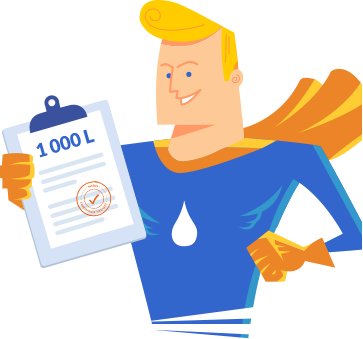
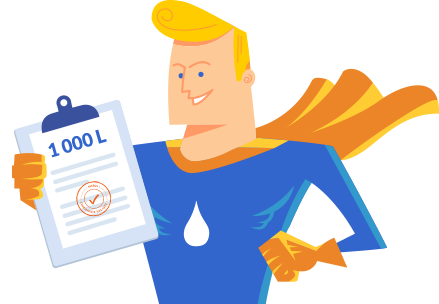
mascotte cycle 5

diff --git a/prix-fioul.html b/prix-fioul.html
@@ -16,7 +16,7 @@
 	  	<link rel="stylesheet" href="css/libs/normalize.css">
 	  	<link rel="stylesheet" media="screen" href="js/libs/bootstrap/bootstrap.min.css">
 	  	<link rel="stylesheet" media="screen" href="js/libs/bootstrap/bootstrap-responsive.min.css">
-	  	<link rel="stylesheet" href="css/cycle.css">
+	  	<link rel="stylesheet" href="css/interieure.css">
 	  	<link rel="stylesheet" href="css/commun.css">
 		<!--[if lt IE 7]>
 		<link rel="stylesheet" href="css/libs/ie6.css" />
@@ -31,7 +31,7 @@
 	    <![endif]-->
 	</head>
 	
-	<body class="cycle">
+	<body class="interieure">
 		<div class="big-container">
 	  	<header class="bloc-full bloc-blanc">
 	  		<div class="container">
@@ -94,109 +94,95 @@
 	  		</div>
 	  	</section>
 	  	<div class="bloc-full bloc-gris-bleu">
-		  	<div class="container no-relative">
-		  		<section id="bloc-cycle">
-		  			<section id="bloc-etapes-cycle" class="bloc-full">
-		  				<ul id="etapes-cycle">
-		  					<li class="etape-cycle inactive">
-		  						<div class="bloc-titre-etape"><div class="titre-etape">Devis</div></div>
-		  						<div class="bloc-num-etape first"><span class="num-etape"></span></div>
-		  					</li><li class="etape-cycle inactive">
-		  						<div class="bloc-titre-etape"><div class="titre-etape">Coordonnées</div></div>
-		  						<div class="bloc-num-etape"><span class="num-etape"></span></div>
-		  					</li><li class="etape-cycle inactive">
-		  						<div class="bloc-titre-etape"><div class="titre-etape">Récapitulatif</div></div>
-		  						<div class="bloc-num-etape"><span class="num-etape"></span></div>
-		  					</li><li class="etape-cycle inactive">
-		  						<div class="bloc-titre-etape"><div class="titre-etape">Paiement</div></div>
-		  						<div class="bloc-num-etape last"><span class="num-etape"></span></div>
-		  					</li>
-		  				</ul>
-		  			</section>
-		  			<section class="bloc-formulaire bloc-full">
-		  				<form class="form-horizontal">
-			  				<div class="bloc-blanc-ombre small-margin-bottom bloc-full">
-			  					<div class="part-form">
-			  						<div class="titre-part-form">
-			  							<div class="picto-check"></div>
-			  							<h2>Votre commande a bien été enregistrée&nbsp;!</h2>
-			  						</div>
-			  						<div class="controls small-margin">
-										<p>Merci de votre commande, <strong>M. Jean Lefèvre.</strong></p>
-										<p>Votre numéro de commande est le <strong>45482</strong> et un email de confirmation vous a été envoyé à l’adresse <strong>adresse@email.com</strong></p>
-										<p>Votre distributeur va vous contacter prochainement au <strong>06 45 20 15 36</strong> (ou au <strong>01 01 01 01 01</strong>), pour convenir avec vous d’un créneau horaire pour vous livrer vos <strong>1 000 litres</strong> de <strong>fioul ordinaire</strong> au <strong>29 rue Jules Ferry 86120 Bournand</strong> au plus tard le <strong>10 juillet 2014.</strong></p>
-									</div>
-			  					</div><div class="part-details">
-			  						<div class="fond-part-details"></div>
-			  						<div class="detail-cycle">
-			  							Pour toute question sur votre <strong>livraison</strong> : contactez votre distributeur au <strong>01 02 03 04 05.</strong>
-			  						</div>
-			  						<div class="detail-cycle">
-			  							Pour toute question sur votre <strong>commande</strong> : <br /><a class="btn btn-link" href="#"><span class="txt-btn">cliquez ici pour nous contacter par email</span></a><br /> ou appelez-nous au <strong>09 75 18 75 18.</strong>
-			  						</div>
-			  					</div>
-			  				</div>
-			  				<div class="bloc-blanc-ombre margin-bottom bloc-full">
-			  					<div class="part-form">
-			  						<div class="titre-part-form inline-block">
-			  							<h2>Partagez votre expérience !</h2>
-			  						</div>
-			  						<div class="controls small-margin">
-										<ul class="social-form">
-											<li><a href="#" class="social-link facebook"><span></span></a></li>
-											<li><a href="#" class="social-link twitter"><span></span></a></li>
-											<li><a href="#" class="social-link google-plus"><span></span></a></li>
-										</ul>
-			  						</div>
-			  					</div><div class="part-details">
-			  							<div class="mascotte-experience"></div>
-			  						<div class="fond-part-details"></div>
-			  					</div>
-			  				</div>
-		  				</form>
-		  			</section>
+		  	<div class="container">
+		  		<section id="bloc-content-inte">
+		  			<ul class="breadcrumb">
+		  			  <li><a href="#">Accueil</a> <span class="divider">›</span></li>
+		  			  <li class="active">Prix du fioul</li>
+		  			</ul>
+		  			<div class="bloc-blanc-ombre bloc-full">
+		  				<div class="part-inte">
+							<h1>Le prix du fioul en France</h1>
+							<p>Retrouvez le <strong>prix du fioul domestique aujourd'hui en France</strong> et dans votre région. Nous mettons à jour quotidiennement les prix du fioul de chaque région. Ce prix moyen du fioul domestique est calculé à partir des moyennes des prix observées dans les différentes villes de France.</p>
+							<h2>Éditeur du site</h2>
+							<p>Le site web <a class="btn btn-link" href="#"><span class="txt-btn">www.fioulreduc.com</span></a> est édité par la société :</p><br />
+							<p><strong>SAS FioulReduc</strong><br />
+							Société par actions simplifiées au Capital de 25 000 euros<br />
+							Immatriculée au Registre du Commerce et des Sociétés de Paris sous le numéro 534 917 000 R.C.S<br />
+							Paris<br />
+							TVA intracommunautaire numéro FR 84 534917000<br />
+							Dont le siège social est situé 8, rue La Bruyère - 75009 Paris<br />
+							Téléphone : +33 1 71 26 74 40</p><br />
+							<p>E-Mail : <a class="btn btn-link" href="#"><span class="txt-btn">contact@fioureduc.com</span></a></p><br />
+							<p>Le directeur de la publication est M. Guillaume BORT, agissant en tant que Président de la société SAS fioulreduc</p>
+							<h2>Protection de la vie privée</h2>
+							<p>Ce site fait l'objet d'une déclaration de traitement automatisé d'informations nominatives auprès de la CNIL, Commission Nationale de l'Informatique et des Libertés.</p><br />
+							<p>Vous bénéficierez, en vertu de la loi "Informatique et Libertés" numéros 34 du 6 janvier 1978, d'un droit d'accès, de modification, de rectification et de suppression des informations vous concernant. Vous bénéficierez d'un droit à l'oubli au terme d'une année civile depuis l'enregistrement de ces données. Le droit d'accès pourra s'exercer en utilisant les coordonnées ci-dessous :</p><br />
+							<p>SAS fioulreduc<br />
+							8, rue La Bruyère<br />
+							75009 Paris<br />
+							France<br />
+							Téléphone : +33 1 71 26 74 40<br />
+							<a class="btn btn-link" href="#"><span class="txt-btn">contact@fioureduc.com</span></a></p>
+							<h2>Lorem ipsum dolor sit amet, consectetur adipiscing elit.</h2>
+							<p>Fusce dapibus, tellus ac cursus commodo, tortor mauris condimentum nibh, ut fermentum massa justo sit amet risus. Lorem ipsum dolor sit amet, consectetur adipiscing elit. Sed posuere consectetur est at lobortis. Etiam porta sem malesuada magna mollis euismod. Vestibulum id ligula porta felis euismod semper. Nulla vitae elit libero, a pharetra augue.</p>
+							<h3>Integer posuere erat a ante venenatis dapibus posuere velit aliquet</h3>
+							<p>Vivamus sagittis lacus vel augue laoreet rutrum faucibus dolor auctor. Aenean lacinia bibendum nulla sed consectetur. Curabitur blandit tempus porttitor. Cras justo odio, dapibus ac facilisis in, egestas eget quam. Maecenas faucibus mollis interdum. Aenean eu leo quam. Pellentesque ornare sem lacinia quam venenatis vestibulum.</p>
+							<h3>Cras mattis consectetur</h3>
+							<p>Aenean eu leo quam. Pellentesque ornare sem lacinia quam venenatis vestibulum. Cras mattis consectetur purus sit amet fermentum. Cras mattis consectetur purus sit amet fermentum. Lorem ipsum dolor sit amet, consectetur adipiscing elit. <strong>Integer posuere erat a ante venenatis dapibus posuere velit aliquet. Aenean eu leo quam. Pellentesque ornare sem lacinia quam venenatis vestibulum.</strong></p><br />
+							<ul>
+								<li>Nulla vitae elit libero, a pharetra augue.</li>
+								<li>Nullam quis risus eget urna mollis ornare vel eu leo.</li>
+								<li>Donec id elit non mi porta gravida at eget metus.</li>
+							</ul><br/>
+							<p>Etiam porta sem malesuada magna mollis euismod. Vivamus sagittis lacus vel augue laoreet rutrum faucibus dolor auctor. Cras mattis consectetur purus sit amet fermentum. Nulla vitae elit libero, a pharetra augue.</p><br />
+							<p>Cras justo odio, dapibus ac facilisis in, egestas eget quam. Cum sociis natoque penatibus et magnis dis parturient montes, nascetur ridiculus mus. Aenean eu leo quam. Pellentesque ornare sem lacinia quam venenatis vestibulum.</p><br />
+							<blockquote>Donec sed odio dui. Donec sed odio dui. Aenean lacinia bibendum nulla sed consectetur.Sed posuere consectetur est at lobortis. Cras mattis consectetur purus sit amet fermentum. Cras mattis consectetur purus sit amet fermentum. Aenean lacinia bibendum nulla sed consectetur.</blockquote><br />
+							<p>Donec ullamcorper nulla non metus auctor fringilla. Nulla vitae elit libero, a pharetra augue. Sed posuere consectetur est at lobortis. Fusce dapibus, tellus ac cursus commodo, tortor mauris condimentum nibh, ut fermentum massa justo sit amet risus.</p>
+						</div>
+		  			</div>
 		  		</section>
-		  		<aside id="ticket">
-		  			<div id="trou-ticket"></div>
-		  			<div id="masque-ticket">
-			  			<div id="body-ticket">
-			  				<div id="top-body-ticket"></div>
-			  				<div id="ticket-fixed">
-			  					<div id="content-ticket-fixed">
-			  						<div id="ombre-ticket-fixed"></div>
-			  						<div id="content-bloc-ticket-fixed">
-					  					<div id="top-ticket-fixed">
-					  						<div id="part-left-top-ticket-fixed">
-					  							<div class="traits-ticket-left"><div class="trait-fin dessus"></div><div class="trait-gras"></div></div>
-					  							<div class="ic-camion"></div>
-					  							<div class="traits-ticket-right"><div class="trait-fin dessus"></div><div class="trait-gras"></div></div>
-					  						</div>
-					  						<div id="coin-ticket"></div>
-					  					</div>
-					  					<div id="bloc-prix-ticket" class="padding-ticket margin-negatif-top"><span class="prix-ticket">0,836</span><div class="devise-taxes"><span class="devise">€</span><span class="taxes">TTC/Litre</span></div></div>
-					  					<div class="prix-bas-ticket"><span class="ic-sousligne"></span>Prix bas <span class="decal">garantis !!*</span></div>
-					  					<div class="bloc-traits padding-ticket margin-negatif-top"><div class="trait-gras dessus"></div><div class="trait-fin"></div></div>
-					  					<div id="bloc-details-ticket" class="padding-ticket margin-negatif-top">
-					  						<ul class="details-ticket">
-					  							<li class="margin-bottom clearfix"><div class="ligne-detail clearfix"><div class="pointilles-ticket"></div><div class="titre-detail pull-left">Fioul ordinaire</div><div class="texte-detail pull-right">1 000 litres</div></div></li>
-					  							<li class="clearfix"><div class="ligne-detail clearfix"><div class="pointilles-ticket"></div><div class="titre-detail pull-left">Code postal</div><div class="texte-detail pull-right">86120</div></div></li>
-					  							<li class="margin-bottom clearfix"><div class="ligne-detail clearfix"><div class="pointilles-ticket"></div><div class="titre-detail pull-left">Livraison sous</div><div class="texte-detail pull-right">5 jours</div></div><div class="indic-ticket pull-right">au plus tard le <strong>10/07/14</strong></div></li>
-					  							<li class="margin-bottom clearfix"><div class="ligne-detail clearfix"><div class="pointilles-ticket"></div><div class="titre-detail pull-left">Règlement</div><div class="texte-detail pull-right">À la commande, en 3x</div></div><div class="indic-ticket pull-right"><div class="pointilles-ticket"></div><div class="fond-blanc-pointilles"><strong>356,05€</strong> le 10/07/14</div></div><br /><div class="indic-ticket pull-right"><div class="pointilles-ticket"></div><div class="fond-blanc-pointilles"><strong>356,05€</strong> le 10/08/14</div></div><br /><div class="indic-ticket pull-right"><div class="pointilles-ticket"></div><div class="fond-blanc-pointilles"><strong>356,05€</strong> le 10/09/14</div></div></li>
-					  							<li><div class="ligne-detail clearfix"><div class="pointilles-ticket"></div><div class="titre-detail pull-left">Code de réduction</div><div class="texte-detail pull-right">-100€</div></div></li>
-					  						</ul>
-					  					</div>
-					  					<div class="bloc-traits margin-negatif-top"><div class="trait-fin dessus"></div><div class="trait-gras"></div></div>
-					  					<div id="bloc-total-ticket" class="padding-ticket margin-negatif-top clearfix">
-					  						<div class="tampon"></div>
-					  						<div id="total-ticket" class="pull-left">Total</div>
-					  						<div id="prix-total-ticket" class="pull-right"><div class="prix-total"><span class="prix-ticket" id="prix-total-ticket-anim">928,15</span><div class="devise-taxes"><span class="devise">€</span><span class="taxes">TTC</span></div><div class="prix-sans-reduc">au lieu de <span class="barre">1028,15€</span></div><div class="indic-ticket gris pull-right">Frais de livraison inclus</div></div>
-				  							</div>
-				  						</div>
-				  						<div id="bottom-ticket-fixed" class="margin-negatif-top"></div>
-				  					</div>
-				  				</div>
-			  				</div>
-			  			</div>
+		  		<aside id="bloc-commande-inte">
+		  			<div class="bloc-blanc-ombre bloc-full" id="bloc-commande-inte-fixed">
+		  				<div class="prix-bas"><span class="ic-sousligne"></span>Prix bas <span class="decal">garantis !!*</span></div>
+		  				<h2>Commandez votre fioul</h2>
+		  				<form class="form-horizontal" action="" method="post">
+		  					<fieldset>
+		  						 <div class="control-group">
+		  							<label class="control-label" for="order-zipcode">Mon code postal : </label>
+		  							<div class="controls">
+		  								<input id="order-zipcode" name="order-zipcode" class="taille1" type="text" value="" title="">
+		  							</div>
+		  						</div>
+		  						<div class="control-group">
+		  							<label class="control-label" for="order-quantity">Quantité : </label>
+		  							<div class="controls">
+		  								<input id="order-quantity" name="order-quantity" class="taille1" type="number" step="1" value="" title=""> <span>litres</span>
+		  							</div>
+		  						</div>
+		  						<div class="control-group">
+		  							<label class="control-label" for="order-product">Produit</label>
+		  							<div class="controls">
+		  								<select id="order-product" name="order-product" class="taille2" title="">
+		  									<option value="1">Fioul Ordinaire</option>
+		  									<option value="2">Fioul Supérieur</option>
+		  									<option value="3">GNR Ordinaire</option>
+		  									<option value="4">GNR Supérieur</option>
+		  								</select>
+		  							</div>
+		  						</div>
+		  						<div class="control-group">
+		  							<label class="control-label" for="order-email">Mon email</label>
+		  							<div class="controls">
+		  								<input id="order-email" name="order-email" class="taille2" type="text" value="" title="">
+		  								
+		  							</div>
+		  						</div>
+		  						<div id="bloc-bouton">
+		  							<button type="submit" class="btn btn-block">Voir les prix<span class="ic-fleche-rond"></span></button>
+		  						</div>
+		  					</fieldset>
+		  				</form>
 		  			</div>
 		  		</aside>
 		  	</div>
@@ -338,6 +324,6 @@
 		<script src="js/libs/animateNumber/jquery.animateNumber.min.js"></script>
 		
 		<script src="js/script.js" type="text/javascript" charset="utf-8"></script>
-		<script src="js/script-cycle.js" type="text/javascript" charset="utf-8"></script>
+		<script src="js/script-interieure.js" type="text/javascript" charset="utf-8"></script>
 	</body>
 </html>

diff --git a/css/cycle.css b/css/cycle.css
@@ -650,12 +650,12 @@ ul#cuves li.cuve .body-cuve .controls .taille2 {
 }
 .mascotte-experience {
   display: block;
-  width: 363px;
-  height: 339px;
-  background: url('../layoutImg/pictos-form/mascotte-experience.png') no-repeat center center;
+  width: 439px;
+  height: 304px;
+  background: url('../layoutImg/pictos-form/mascotte-experience.png') no-repeat bottom center;
   position: absolute;
-  top: -78px;
-  right: 0;
+  bottom: 0;
+  right: -30px;
   z-index: 2;
 }
 ul.social-form {
@@ -1299,9 +1299,8 @@ ul.social-form li a.social-link:hover span {
 /* @group Responsive horizontal */
 @media (max-width: 1250px) {
   .mascotte-experience {
-    width: 130%;
-    height: 130%;
-    top: -30px;
+    width: 165%;
+    height: 165%;
     background-size: 100% auto;
   }
   #bloc-cycle {
@@ -1394,10 +1393,10 @@ ul.social-form li a.social-link:hover span {
   .mascotte-experience {
     width: 95%;
     height: 100%;
-    top: 0;
-    background-position: center left;
+    background-position: bottom left;
     background-size: 100% auto;
     background-size: cover;
+    right: 0;
   }
   #bloc-cycle {
     width: 60%;

diff --git a/less/cycle.less b/less/cycle.less
@@ -565,12 +565,12 @@ ul#cuves{
 
 .mascotte-experience{
 	display: block;
-	width: 363px;
-	height: 339px;
-	background: url('../layoutImg/pictos-form/mascotte-experience.png') no-repeat center center;
+	width: 439px;
+	height: 304px;
+	background: url('../layoutImg/pictos-form/mascotte-experience.png') no-repeat bottom center;
 	position: absolute;
-	top: -78px;
-	right: 0;
+	bottom: 0;
+	right: -30px;
 	z-index: 2;
 }
 
@@ -1113,9 +1113,8 @@ ul.social-form{
 
 @media (max-width: 1250px) {
 	.mascotte-experience {
-		width: 130%;
-		height: 130%;
-		top: -30px;
+		width: 165%;
+		height: 165%;
 		background-size:  100% auto;
 	}
 	#bloc-cycle {
@@ -1225,10 +1224,10 @@ ul.social-form{
 	.mascotte-experience {
 		width: 95%;
 		height: 100%;
-		top: 0;
-		background-position: center left;
+		background-position: bottom left;
 		background-size: 100% auto;
 		background-size: cover;
+		right: 0;
 	}
 	#bloc-cycle {
 		width: 60%;

diff --git a/less/commun.less b/less/commun.less
@@ -317,6 +317,9 @@ html, body{
 	&.margin-bottom{
 		margin: 0 0 170px 0;
 	}
+	&.small-margin-bottom{
+		margin: 0 0 130px 0;
+	}
 	.part-inte{
 		padding: 40px 45px;
 		h2{
@@ -3158,7 +3161,7 @@ ul#menu-top-bar{
 	.bloc-blanc-ombre{
 		&.margin-bottom{
 			margin: 0 0 50px 0;
-		}	
+		}
 	}
 	
 	.part-commande{

diff --git a/css/commun.css b/css/commun.css
@@ -2727,6 +2727,9 @@ body {
 .bloc-blanc-ombre.margin-bottom {
   margin: 0 0 170px 0;
 }
+.bloc-blanc-ombre.small-margin-bottom {
+  margin: 0 0 130px 0;
+}
 .bloc-blanc-ombre .part-inte {
   padding: 40px 45px;
 }
